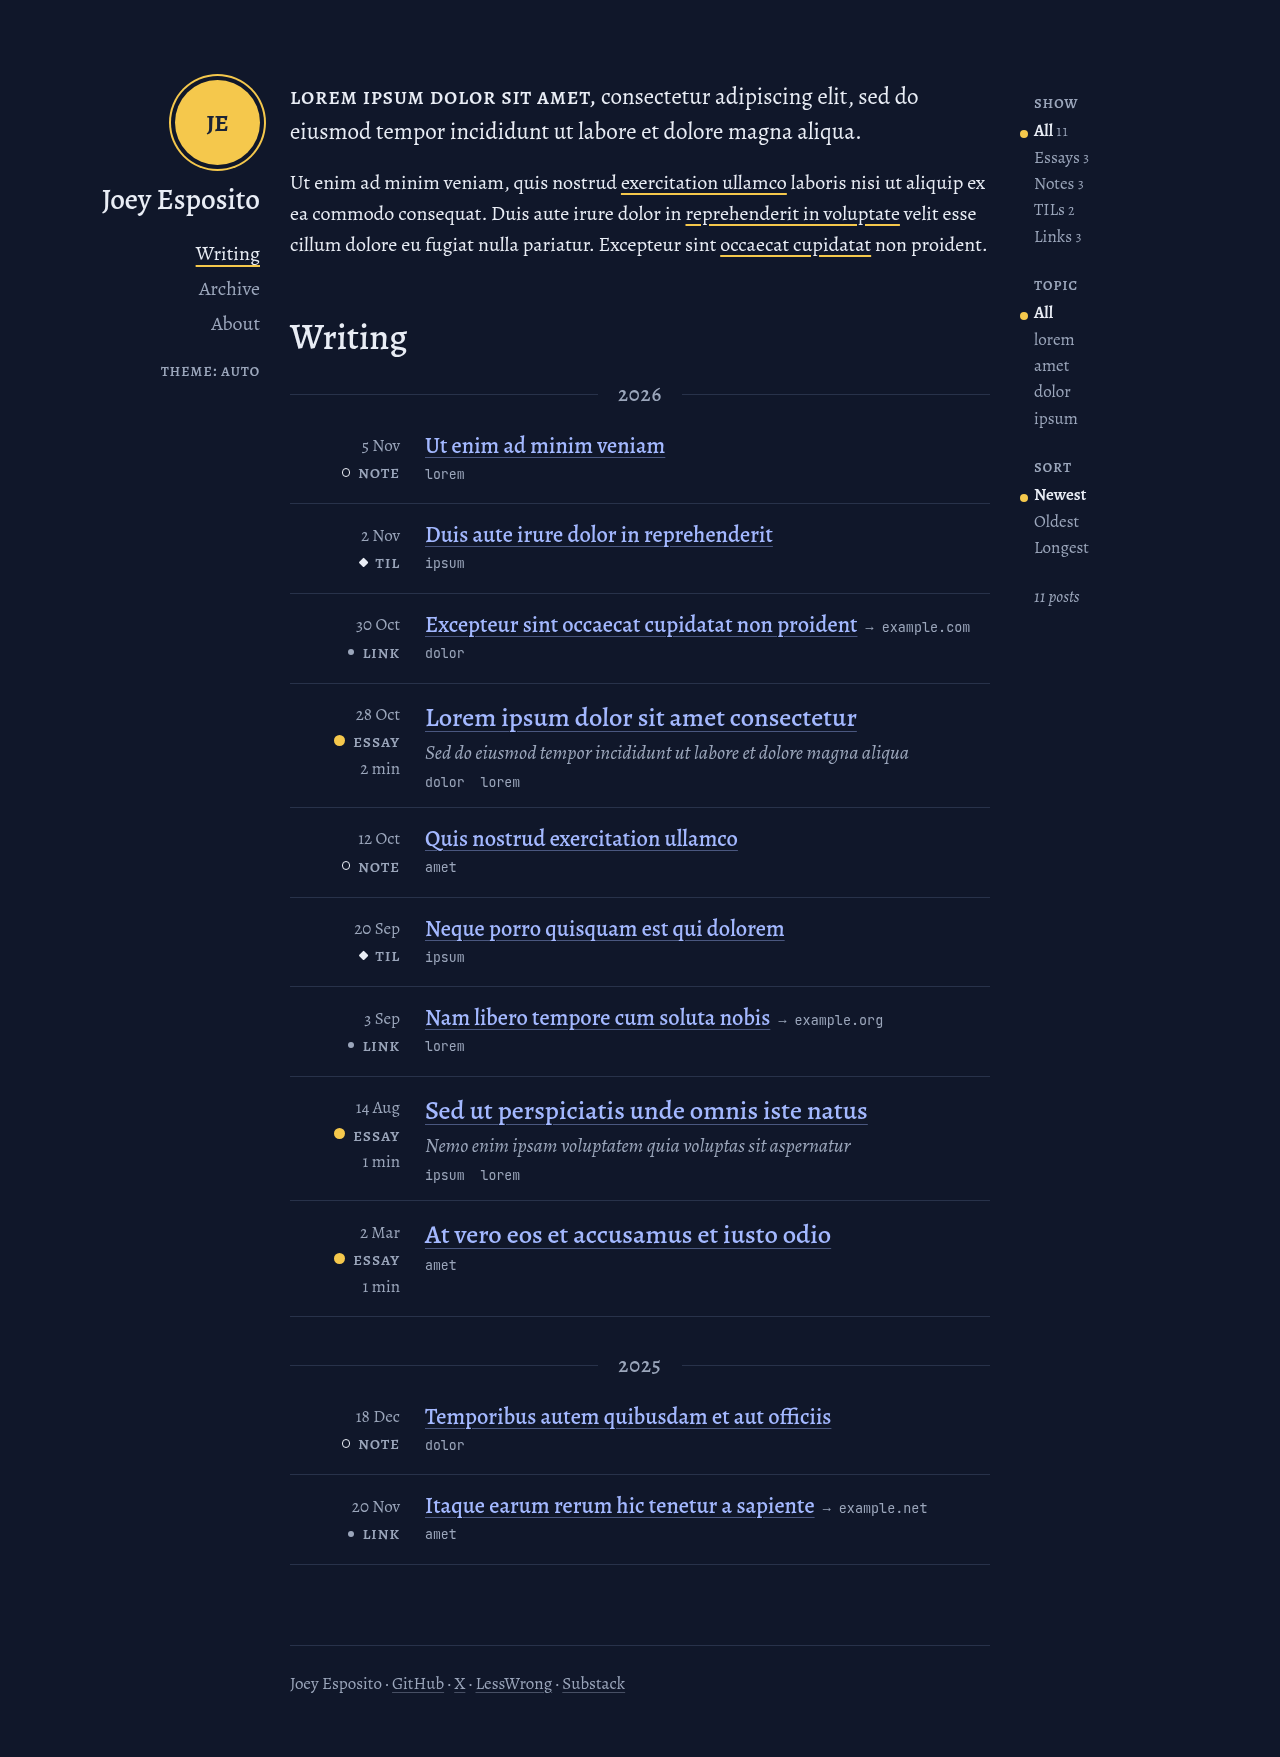
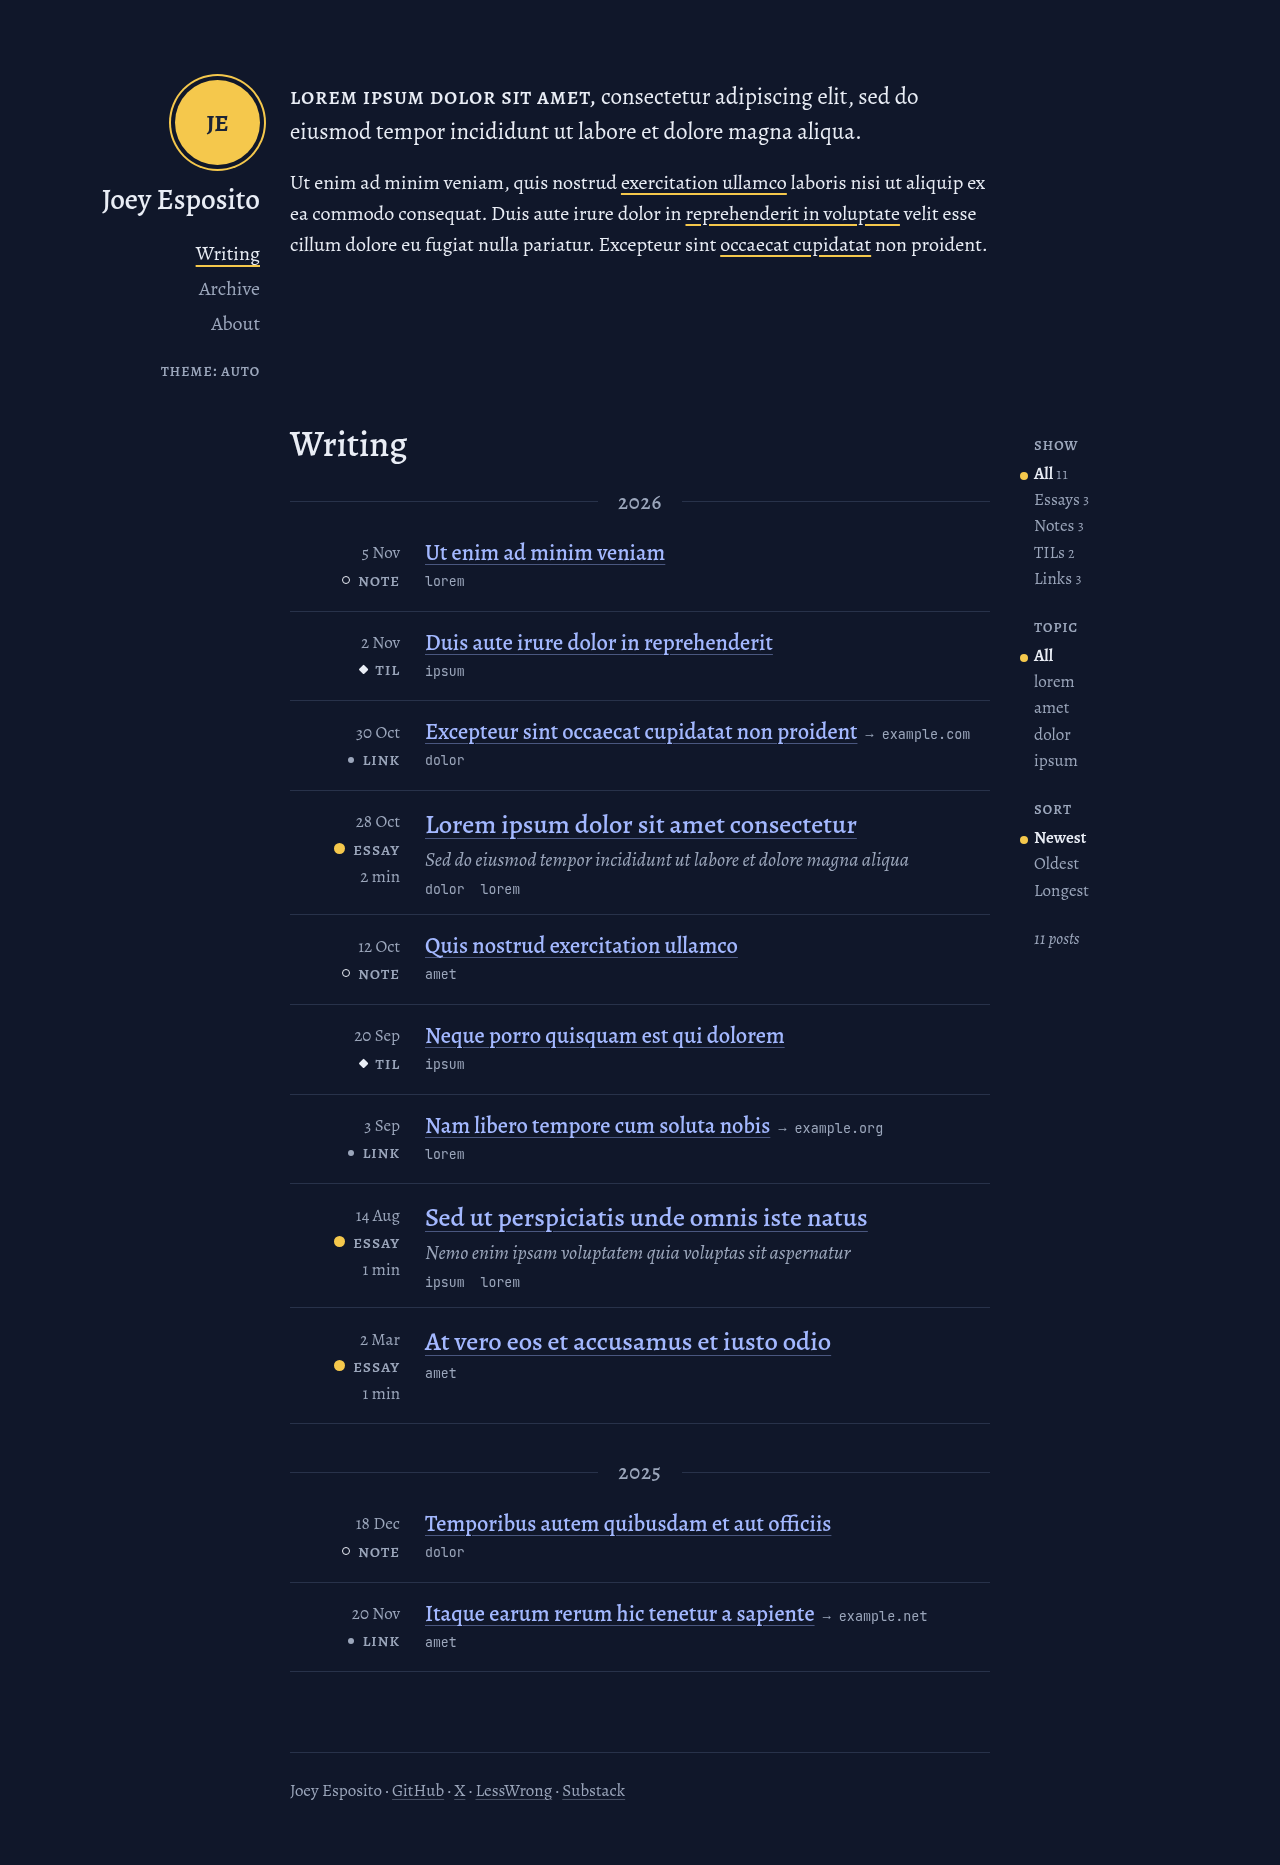
Start the home page's writing list below the intro and the margin header
On wide screens the intro and the margin's avatar, name, nav and theme button
now form one band, and the Writing heading and its filters begin below the
taller of the two instead of beside the nav. This replaces the previous
change that raised the filters level with the intro. Phone layouts and other
pages are unchanged.

diff --git a/src/styles/global.css b/src/styles/global.css
@@ -103,20 +103,24 @@ sup { line-height: 0; }
   .theme-toggle { margin-top: 0.8rem; }
   .page { grid-column: 3 / 5; grid-row: 1; max-width: none; margin: 0; padding: 4rem 0 0; }
   .page > * { max-width: var(--measure); }
-  .page > .with-rail { max-width: none; display: grid; grid-template-columns: var(--measure) var(--rail); column-gap: var(--rail-gap); }
+  .page > .with-rail,
+  .home > .with-rail { max-width: none; display: grid; grid-template-columns: var(--measure) var(--rail); column-gap: var(--rail-gap); }
   .with-rail > * { grid-column: 1; }
-  .with-rail > .rail,
-  .home > .writing > .rail { grid-column: 2; grid-row: 1 / span 3; align-self: start; position: sticky; top: 2rem; max-height: calc(100vh - 4rem); overflow-y: auto; }
-  /* On the home page the list's controls start level with the intro: the writing section's
-     children join the home grid, and the last row (the list) takes up the rail's extra
-     height so it never pushes the heading away from the list. */
-  .page > .home { grid-template-rows: auto auto 1fr; }
-  .home > .writing { display: contents; }
-  .home > .writing > * { grid-column: 1; }
-  .home > .writing > .rail { grid-row: 1 / -1; }
-  /* With the controls out in the rail, the first year divider sits right under the heading. */
-  .home .post-list > .year:first-child { margin-top: 0.4rem; }
+  .with-rail > .rail { grid-column: 2; grid-row: 1 / span 3; align-self: start; position: sticky; top: 2rem; max-height: calc(100vh - 4rem); overflow-y: auto; }
   .site-footer { grid-column: 3; grid-row: 2; max-width: none; margin-inline: 0; padding-inline: 0; }
+
+  /* Home: the intro and the margin's name and pages form one band, and the writing list
+     starts below the taller of the two. The page shares the body's rows (subgrid) so the
+     band row fits both; the header holds that row only, so here it scrolls away. */
+  body:has(.home) { grid-template-rows: auto 1fr auto; }
+  body:has(.home) .site-header { grid-row: 1; position: static; }
+  body:has(.home) .page { grid-row: 1 / 3; display: grid; grid-template-rows: subgrid; }
+  body:has(.home) .site-footer { grid-row: 3; }
+  .home { display: contents; }
+  .home > .intro { grid-row: 1; max-width: var(--measure); }
+  .home > .writing { grid-row: 2; align-self: start; }
+  /* With the controls out in the rail, the first year divider sits right under the heading. */
+  .writing .post-list > .year:first-child { margin-top: 0.4rem; }
 }
 
 /* ---------- Post-type marks ---------- */

diff --git a/DESIGN.md b/DESIGN.md
@@ -64,9 +64,11 @@ Meta 0.85–0.92rem. Inline code 0.8em; code blocks 0.72rem (14.4px).
 - From 80rem: the body is a five-column grid (`1fr | rail | measure | rail | 1fr`). The
   header sits in the left rail, right-aligned and sticky: a 4.25rem avatar, the name, the
   nav, the theme button. Pages that need it put a sticky panel in the right rail (`.with-rail`
-  and `.rail`): the writing list's controls, an essay's contents. On the home page the
-  controls start level with the intro, and the first year divider sits 0.4rem under the
-  "Writing" heading.
+  and `.rail`): the writing list's controls, an essay's contents.
+- Home page, from 80rem: the intro and the margin's avatar, name, nav and theme button form
+  one top band, and "Writing" with its controls starts below the taller of the two. The
+  header holds only that band here, so it scrolls away with it; the controls stay sticky.
+  The first year divider sits 0.4rem under the "Writing" heading.
 
 ## Components
 
@@ -120,9 +122,10 @@ Client JavaScript: the filter script on `/` and the theme button. Nothing else.
    cards.
 6. For launch, the evals page and its nav item wait for their text, and the home page shows
    only the intro until the first post exists. Joey agreed to both.
-7. Joey found the wide home page's spacing loose. The list's controls now start level with
-   the intro instead of beside "Writing", and the gap between that heading and the first
-   year divider shrank from 2.2rem to 1rem. The 375px layout is unchanged.
+7. Joey found the wide home page's spacing loose: "Writing" began beside the margin's nav.
+   The intro and the margin's name and pages now form one band, the writing list and its
+   controls start below it, and the gap between the "Writing" heading and the first year
+   divider shrank from 2.2rem to 1rem. The 375px layout is unchanged.
 
 ## Notes
 
